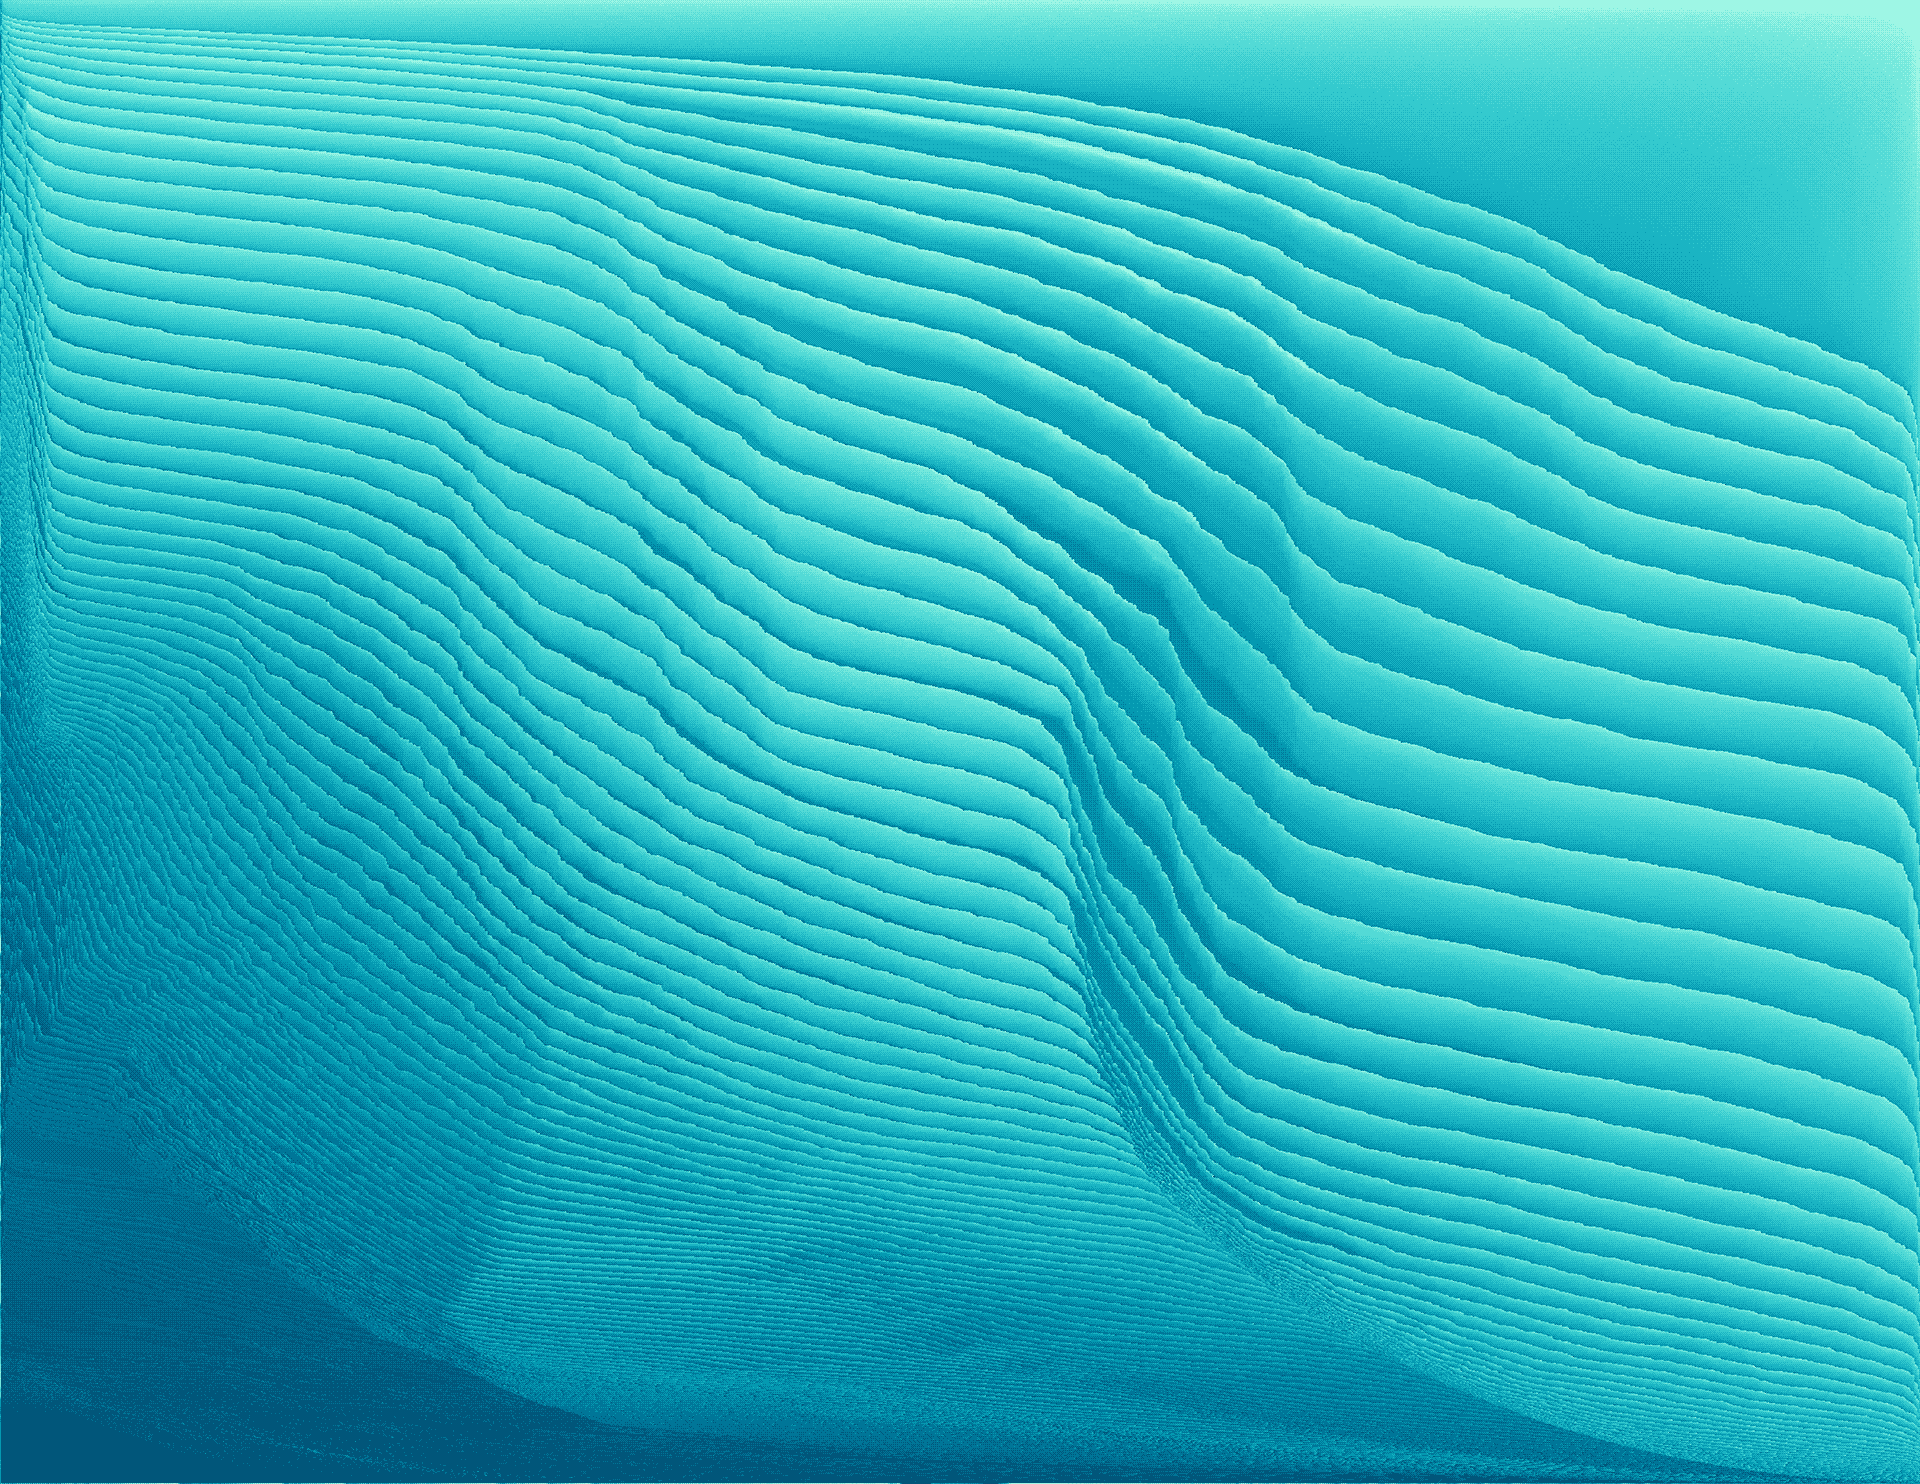
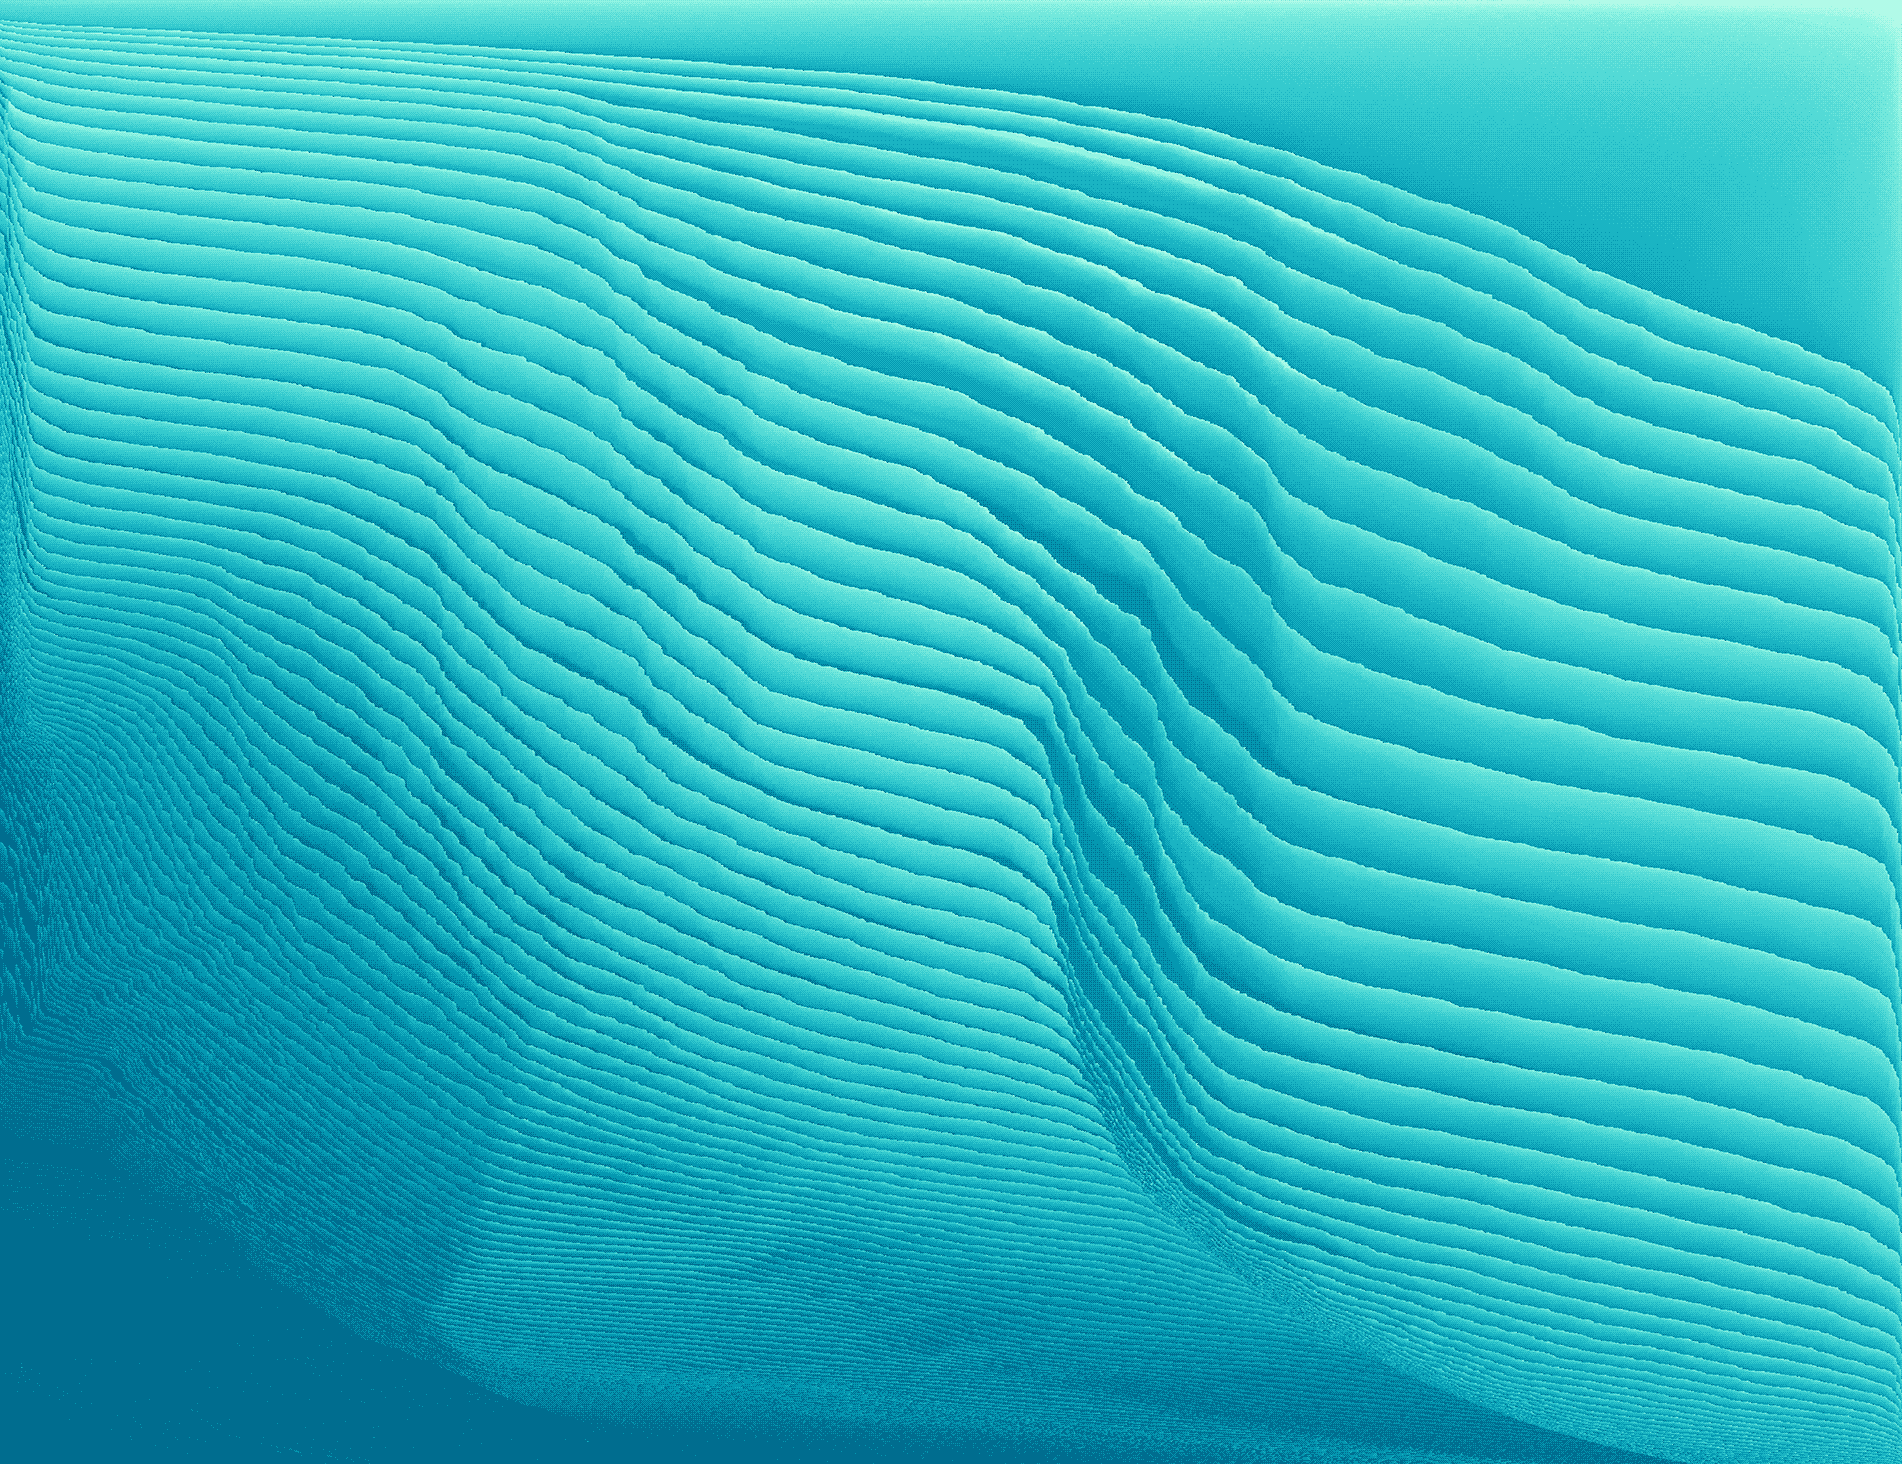
layout refinements

diff --git a/src/routes/index.svelte b/src/routes/index.svelte
@@ -9,29 +9,42 @@
   let sectionHeights = [];
 </script>
 
-  <section style="padding-top: 0; padding-bottom: 25vh;" bind:offsetHeight={sectionHeights[0]}>
+  <section style="padding-top: 0; padding-bottom: 25vh; height: 100vh" bind:offsetHeight={sectionHeights[0]}>
 
-    <ParallaxElem speed="-40" height={sectionHeights[0]}>
-      <img style="position:absolute; width:100vw; height:100vh; top:0; right:0; object-position: right bottom; object-fit: cover; image-rendering: pixelated;" src="lighthouse/sky_dithering.png" />
+    <ParallaxElem speed="-40" height="100vh">
+      <img style="
+      position:absolute; 
+      top:0; right:0;
+      object-position: right bottom;  
+      object-fit: cover; 
+      image-rendering: pixelated;
+      width: 100%; 
+      height:min(100vw, 100vh);" src="lighthouse/sky_dithering.png" />
     </ParallaxElem>
 
-    <ParallaxElem speed="-10" blend="multiply" height={sectionHeights[0]}>
-      <img style="height: 100vh; margin-right: auto;" src="lighthouse/lighthouse_bw.jpg" />
+    <ParallaxElem speed="-10" blend="multiply" height="100vh" offset=".25">
+      <img style="
+      height: max(50vw, 80vh); 
+      margin-right: auto; 
+      max-width: 100%; 
+      object-position: 12% bottom; 
+      margin-top:auto; 
+      object-fit: cover;" src="lighthouse/lighthouse_bw.png" />
     </ParallaxElem>
 
 
-    <Autolayout x={.9} y={.2}>
+    <Autolayout x={.9} y={0.1}>
         <!-- <img style="width: calc(100vw - 1859/1499*100vh*.75); height: 75vh; object-fit: contain; object-position: calc(50% + 3vw) 30%; position:relative; margin-left: auto; mix-blend-mode: multiply; filter: blur(0px) brightness(.75) contrast(15.5); 
       transition: filter 3000ms ease-out;
       /* filter: blur(18px) brightness(2) contrast(15.5);" src="lighthouse/title3.webp" />-->
-      <video style="mix-blend-mode: multiply; max-width: 100%;" src="lighthouse/title3.mp4" muted autoplay loop></video>
+      <video style="mix-blend-mode: multiply; width: calc(55vh * 800/496); max-width: 100%;" src="lighthouse/title3.mp4" muted autoplay loop></video>
     </Autolayout>
 
 
   </section>
   
   <section style="padding: 15vh 0;" bind:offsetHeight={sectionHeights[1]}>
-    <ParallaxElem speed="-2" blend="multiply" top={sectionHeights[0]} height={sectionHeights[1]}>
+    <ParallaxElem speed="-2" blend="multiply" top={sectionHeights[0]} height={sectionHeights[1] + 'px'}>
       <img style="position: absolute; bottom:0; left:20%; height:calc(100%); min-width: 80%; align-self: stretch; mix-blend-mode:multiply;" src="lighthouse/wavesglitch.jpg" />
     </ParallaxElem>
       <div use:inview={options} on:enter={(event) => { event.detail.node.classList.add('visible');}} class="textblock" style="margin: auto;">
@@ -70,7 +83,7 @@
 
     <img style="position: absolute; right:0; bottom:0; height:100%; width:100%;" src="lighthouse/pixelsort_waves.png" />
 
-    <ParallaxElem speed="2" top={sectionHeights[0] + sectionHeights[1]} offset={0.25} height={sectionHeights[2]}>
+    <ParallaxElem speed="2" top={sectionHeights[0] + sectionHeights[1]} offset={0.25} height={sectionHeights[2] + 'px'}>
       <Autolayout x={.8} style="
         transform: translateY(15%);
         z-index: 100;
@@ -92,7 +105,7 @@
 
   <section style="
   background-image: url('lighthouse/darktexture.jpg');
-  background-size: 100% auto;
+  background-size: cover;
   background-attachment: fixed;
   "
   bind:offsetHeight={sectionHeights[3]}>

diff --git a/src/lib/ParallaxElem.svelte b/src/lib/ParallaxElem.svelte
@@ -33,7 +33,7 @@
     pointer-events: none;
     z-index: calc(var(--speed) * 100);
     top: calc(var(--top) * 1px);
-    height: calc(var(--height) * 1px);
+    height: var(--height);
     transform: translateY( calc(var(--offset) * 100%));
     mix-blend-mode: var(--blend);
 }

diff --git a/src/app.css b/src/app.css
@@ -6,6 +6,7 @@
     .textblock{
       font-family: 'IBM Plex Mono', monospace;
       font-style: italic;
+      font-size: max(11px, calc(5px + 1vw));
       display: flex;
       flex-direction: column;
       align-items: start;
